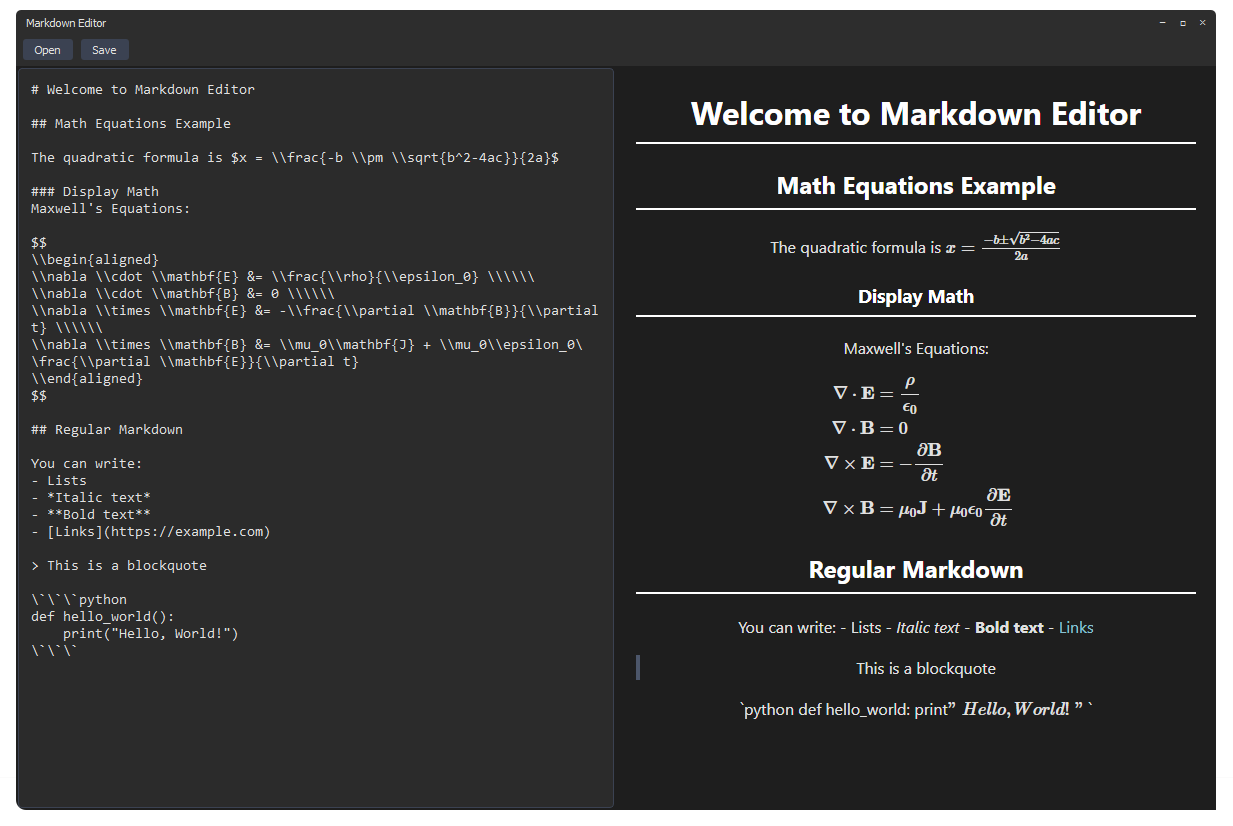
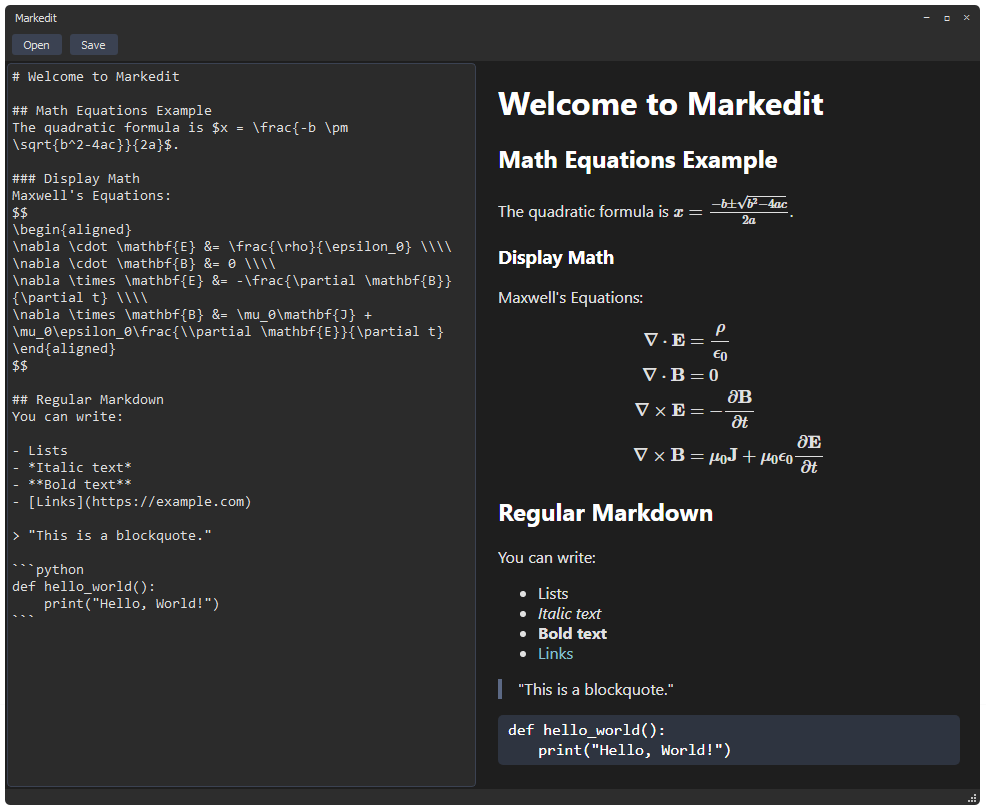
Updated header image.

Changed region(s): [[0.0, 0.0, 1.0, 1.0]]

diff --git a/main.py b/main.py
@@ -1,9 +1,9 @@
 from PyQt5.QtWidgets import (QApplication, QMainWindow, QSplitter, 
                            QTextEdit, QWidget, QVBoxLayout, QHBoxLayout,
-                           QPushButton, QLabel, QFileDialog, QSizeGrip)
+                           QPushButton, QLabel, QFileDialog, QSizeGrip, QGraphicsDropShadowEffect)
 from PyQt5.QtWebEngineWidgets import QWebEngineView
-from PyQt5.QtCore import Qt #, QCoreApplication
-from PyQt5.QtGui import QIcon
+from PyQt5.QtCore import Qt, QPoint
+from PyQt5.QtGui import QIcon, QColor
 import sys
 import markdown
 import os
@@ -16,6 +16,19 @@ class MarkdownEditor(QMainWindow):
         self.dragPos = None
         self.maximizeButton = None
         
+        # Add shadow effect
+        self.shadow = QGraphicsDropShadowEffect(self)
+        self.shadow.setBlurRadius(20)
+        self.shadow.setXOffset(0)
+        self.shadow.setYOffset(0)
+        self.shadow.setColor(QColor(0, 0, 0, 100))
+        
+        # Create central widget to hold everything
+        self.central_widget = QWidget()
+        self.central_widget.setObjectName("centralWidget")
+        self.central_widget.setGraphicsEffect(self.shadow)
+        self.setCentralWidget(self.central_widget)
+        
         # Set the window icon
         icon_path = os.path.join('assets', 'icon.ico')
         if os.path.exists(icon_path):
@@ -23,7 +36,7 @@ class MarkdownEditor(QMainWindow):
         
         self.load_styles()
         self.initUI()
-        self.current_file = None  # Track current file
+        self.current_file = None
 
     def load_styles(self):
         # Load Qt stylesheet
@@ -97,40 +110,14 @@ class MarkdownEditor(QMainWindow):
         # Set initial size of the window
         self.resize(1200, 800)
         
-        # Set some initial markdown content
-        initial_markdown = r"""# Welcome to Markdown Editor
-
-## Math Equations Example
-
-The quadratic formula is $x = \\frac{-b \\pm \\sqrt{b^2-4ac}}{2a}$
-
-### Display Math
-Maxwell's Equations:
-
-$$
-\\begin{aligned}
-\\nabla \\cdot \\mathbf{E} &= \\frac{\\rho}{\\epsilon_0} \\\\\\
-\\nabla \\cdot \\mathbf{B} &= 0 \\\\\\
-\\nabla \\times \\mathbf{E} &= -\\frac{\\partial \\mathbf{B}}{\\partial t} \\\\\\
-\\nabla \\times \\mathbf{B} &= \\mu_0\\mathbf{J} + \\mu_0\\epsilon_0\\frac{\\partial \\mathbf{E}}{\\partial t}
-\\end{aligned}
-$$
-
-## Regular Markdown
-
-You can write:
-- Lists
-- *Italic text*
-- **Bold text**
-- [Links](https://example.com)
-
-> This is a blockquote
-
-\`\`\`python
-def hello_world():
-    print("Hello, World!")
-\`\`\`
-"""
+        # Load initial markdown content from example.md
+        example_path = os.path.join('deck', 'example.md')
+        try:
+            with open(example_path, 'r', encoding='utf-8') as file:
+                initial_markdown = file.read()
+        except FileNotFoundError:
+            initial_markdown = "# Welcome to Markedit\n\nStart typing your markdown here..."
+        
         self.editor.setText(initial_markdown)
 
         # Create a custom title bar
@@ -241,9 +228,13 @@ def hello_world():
 
     def toggleMaximized(self):
         if self.isMaximized():
+            # Remove shadow when maximized
+            self.shadow.setEnabled(False)
             self.showNormal()
             self.maximizeButton.setText("□")
         else:
+            # Disable shadow when maximized to prevent visual artifacts
+            self.shadow.setEnabled(True)
             self.showMaximized()
             self.maximizeButton.setText("❐")
 

diff --git a/deck/example.md b/deck/example.md
@@ -15,7 +15,6 @@ $$
 $$
 
 ## Regular Markdown
-
 You can write:
 
 - Lists
